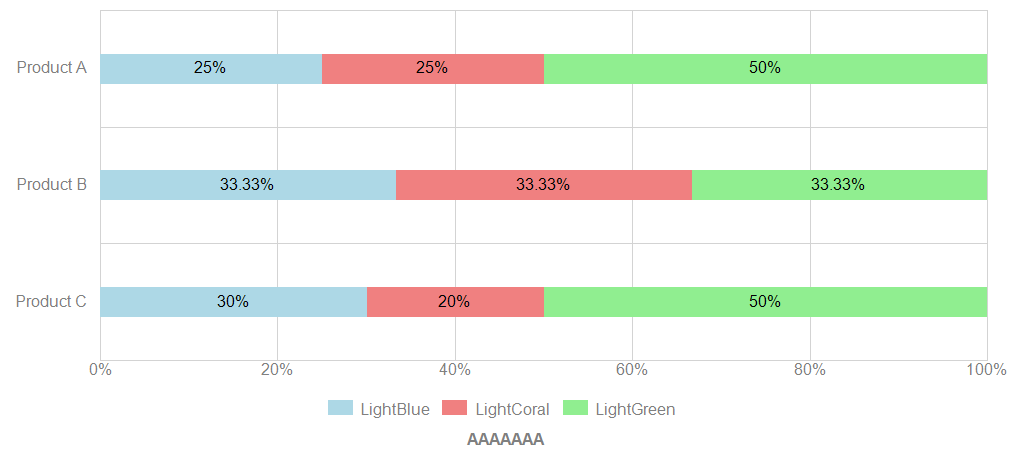
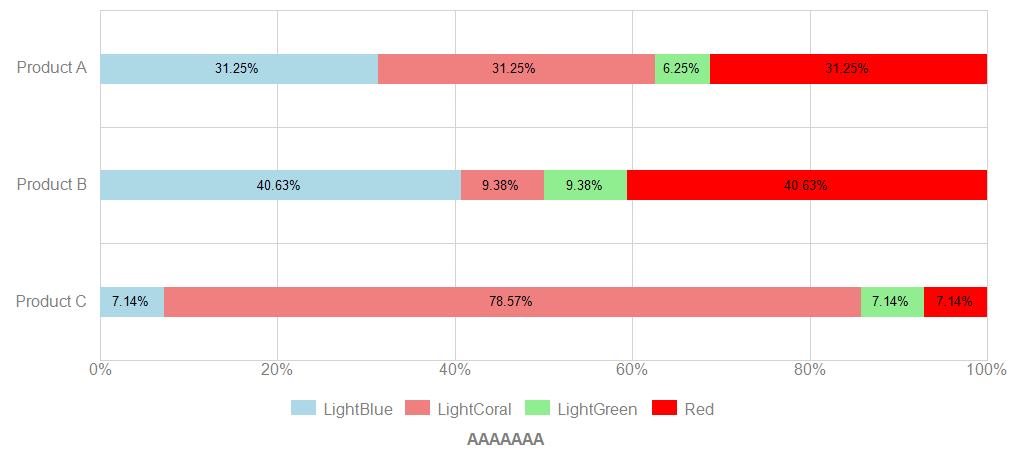
Update example for StackedBar100Chart and StackedColumn100Chart

diff --git a/SimpleImageChartsDemo/Charts/StackedBar100ChartCreator.cs b/SimpleImageChartsDemo/Charts/StackedBar100ChartCreator.cs
@@ -22,25 +22,31 @@ namespace WindowsFormsChart.Charts
                 Size = size,
                 Categories = new[] { "Product A", "Product B", "Product C" },
                 DataSet = new[]
-               {
+                {
                     new DataSeries
                     {
                         Label = "LightBlue",
                         Color = Color.LightBlue,
-                        Data = new[] { 25f, 3f, 3f },
+                        Data = new[] { 25f, 13f, 3f },
                     },
                     new DataSeries
                     {
                         Label = "LightCoral",
                         Color = Color.LightCoral,
-                        Data = new[] { 25f, 3f, 2f },
+                        Data = new[] { 25f, 3f, 33f },
                     }
                     ,
                     new DataSeries
                     {
                         Label = "LightGreen",
                         Color = Color.LightGreen,
-                        Data = new[] { 50f, 3f, 5f },
+                       Data = new[] { 5f, 3f, 3f },
+                    },
+                    new DataSeries
+                    {
+                        Label = "Red",
+                        Color = Color.Red,
+                       Data = new[] { 25f, 13f, 3f },
                     }
                 }
             };

diff --git a/SimpleImageCharts/StackedColumn100Chart/GdiComponents/Gdi100StackedColumn.cs b/SimpleImageCharts/StackedColumn100Chart/GdiComponents/Gdi100StackedColumn.cs
@@ -26,6 +26,8 @@ namespace SimpleImageCharts.StackedBar100Chart.GdiComponents
             var pixelUnit = size.Height / 100;
             var sum = this.Values.Sum();
             var y = size.Height;
+            var font = SlimFont.Default;
+            font.Size = 10;
             for (int i = 0; i < Values.Length; i++)
             {
                 var percent = Values[i] / sum * 100;
@@ -41,7 +43,7 @@ namespace SimpleImageCharts.StackedBar100Chart.GdiComponents
                     Content = string.Format(TextFormat, percent),
                     HorizontalAlignment = GdiSharp.Enum.GdiHorizontalAlign.Center,
                     VerticalAlignment = GdiSharp.Enum.GdiVerticalAlign.Middle,
-                    Font = SlimFont.Default,
+                    Font = font,
                     Color = Color.Black
                 };
                 section.AddChild(text);

diff --git a/SimpleImageCharts/StackedBar100Chart/GdiComponents/Gdi100StackedBar.cs b/SimpleImageCharts/StackedBar100Chart/GdiComponents/Gdi100StackedBar.cs
@@ -26,6 +26,8 @@ namespace SimpleImageCharts.StackedBar100Chart.GdiComponents
             var pixelUnit = size.Width / 100;
             var sum = this.Values.Sum();
             var x = 0f;
+            var font = SlimFont.Default;
+            font.Size = 10;
             for (int i = 0; i < Values.Length; i++)
             {
                 var percent = Values[i] / sum * 100;
@@ -41,7 +43,7 @@ namespace SimpleImageCharts.StackedBar100Chart.GdiComponents
                     Content = string.Format(TextFormat, percent),
                     HorizontalAlignment = GdiSharp.Enum.GdiHorizontalAlign.Center,
                     VerticalAlignment = GdiSharp.Enum.GdiVerticalAlign.Middle,
-                    Font = SlimFont.Default,
+                    Font = font,
                     Color = Color.Black
                 };
                 section.AddChild(text);

diff --git a/SimpleImageChartsDemo/Charts/StackedColumn100ChartCreator.cs b/SimpleImageChartsDemo/Charts/StackedColumn100ChartCreator.cs
@@ -46,6 +46,13 @@ namespace WindowsFormsChart.Charts
                         Color = Color.LightGreen,
                         Data = new[] { 50f, 3f, 5f },
                     }
+                    ,
+                    new DataSeries
+                    {
+                        Label = "Red",
+                        Color = Color.Red,
+                        Data = new[] { 50f, 3f, 5f },
+                    }
                 }
             };
 

diff --git a/SimpleImageCharts/StackedBar100Chart/GdiComponents/GdiStackedBar100ChartArea.cs b/SimpleImageCharts/StackedBar100Chart/GdiComponents/GdiStackedBar100ChartArea.cs
@@ -27,7 +27,7 @@ namespace SimpleImageCharts.StackedBar100Chart.GdiComponents
             var offsetY = (CellSize.Height - BarSettingModel.Size) / 2f;
 
             // render bars one by one
-            var categoriesLength = DataSet.Length;
+            var categoriesLength = DataSet.First().Data.Length;
             var colors = DataSet.Select(x => x.Color).ToArray();
 
             for (int i = 0; i < categoriesLength; i++)

diff --git a/SimpleImageCharts/StackedColumn100Chart/GdiComponents/GdiStackedColumn100ChartArea.cs b/SimpleImageCharts/StackedColumn100Chart/GdiComponents/GdiStackedColumn100ChartArea.cs
@@ -27,7 +27,7 @@ namespace SimpleImageCharts.StackedBar100Chart.GdiComponents
             var offsetX = (CellSize.Width - BarSettingModel.Size) / 2f;
 
             // render bars one by one
-            var categoriesLength = DataSet.Length;
+            var categoriesLength = DataSet.First().Data.Length;
             var colors = DataSet.Select(x => x.Color).ToArray();
 
             for (int i = 0; i < categoriesLength; i++)

diff --git a/README.md b/README.md
@@ -202,20 +202,26 @@ var chart = new StackedBar100Chart
         {
             Label = "LightBlue",
             Color = Color.LightBlue,
-            Data = new[] { 25f, 3f, 3f },
+            Data = new[] { 25f, 13f, 3f },
         },
         new DataSeries
         {
             Label = "LightCoral",
             Color = Color.LightCoral,
-            Data = new[] { 25f, 3f, 2f },
+            Data = new[] { 25f, 3f, 33f },
         }
         ,
         new DataSeries
         {
             Label = "LightGreen",
             Color = Color.LightGreen,
-            Data = new[] { 50f, 3f, 5f },
+            Data = new[] { 5f, 3f, 3f },
+        },
+        new DataSeries
+        {
+            Label = "Red",
+            Color = Color.Red,
+            Data = new[] { 25f, 13f, 3f },
         }
     }
 };
@@ -293,6 +299,13 @@ var chart = new StackedColumn100Chart
         {
             Label = "LightGreen",
             Color = Color.LightGreen,
+            Data = new[] { 50f, 3f, 5f },
+        }
+        ,
+        new DataSeries
+        {
+            Label = "Red",
+            Color = Color.Red,
             Data = new[] { 50f, 3f, 5f },
         }
     }
